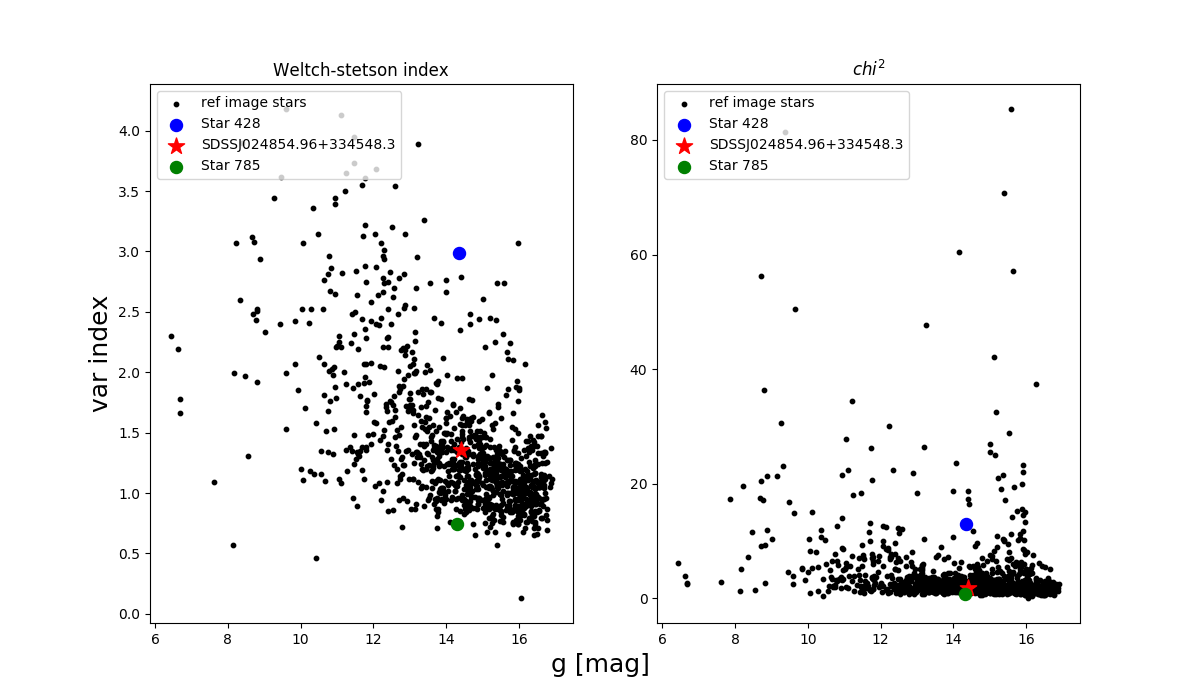
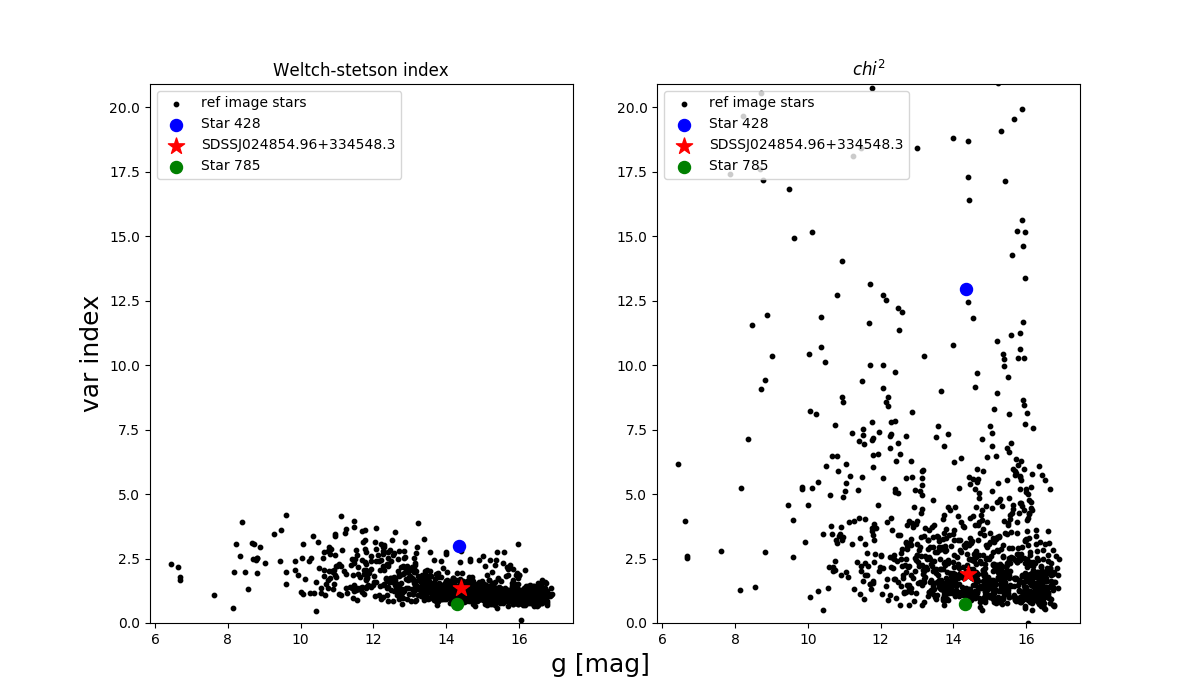
fixed var index plots

diff --git a/scripts/make_var_index_2_panel_plot.py b/scripts/make_var_index_2_panel_plot.py
@@ -13,7 +13,6 @@ def make_var_index_2_panel_plot(targname, WD_tab, close_mag_tab, phot_tab, plot_
 	unstable_star_idx = close_mag_tab[unstable_star_idx]['star_id']
 
 	ref_file = os.path.basename(glob.glob(fits_dir+'*.mag')[0].replace('.mag','.fits'))
-	ref_file = 'fl15201707270183e91.fits'
 
 	#pick most unstable star
 	most_unstable_star_tab = phot_tab[phot_tab['star_id'] == unstable_star_idx]
@@ -27,11 +26,15 @@ def make_var_index_2_panel_plot(targname, WD_tab, close_mag_tab, phot_tab, plot_
 
 	### PANEL 1 ###
 
-
 	#sort by var index, index to clip outliers
 	phot_tab.sort('var_index')
 	ref_phot_output_tab = phot_tab[phot_tab['mag_'+ref_file.replace('.fits','')] != 99.9999][0:-25]
 
+	#make ylim the same for both
+	max_ws_index = max(ref_phot_output_tab['var_index'])
+
+	ax1.set_ylim(0, max_ws_index*5.)
+	ax2.set_ylim(0, max_ws_index*5.)
 	
 	#scatter plot of variability index of all stars in reference image
 	ax1.scatter(ref_phot_output_tab['mag_'+ref_file.replace('.fits','')],ref_phot_output_tab['var_index'], c= 'k',s = 10,label = 'ref image stars')
@@ -91,12 +94,12 @@ if __name__ == '__main__':
 		 		'SDSSJ232941.330+001107.755','SDSSJ235144.29+375542.6','WD0554-165']
 
 
-	for targname in ['SDSSJ210150.65-054550.9']:
+	for targname in all_23_targs:
 		print(targname)
-		WD_tab = '/Users/cshanahan/Desktop/clean_desktop/WD_project/redo_final_ver/23_northern_targets/psf_phot/{}/plots_and_output/WD_tab.csv'.format(targname)
-		phot_tab = '/Users/cshanahan/Desktop/clean_desktop/WD_project/redo_final_ver/23_northern_targets/psf_phot/{}/plots_and_output/{}_phot_output.txt'.format(targname, targname)
-		plot_output_dir = '/Users/cshanahan/Desktop/clean_desktop/WD_project/output_for_paper/23_northern/var_index_plots/'
-		close_mag_tab = '/Users/cshanahan/Desktop/clean_desktop/WD_project/redo_final_ver/23_northern_targets/psf_phot/{}/plots_and_output/close_mag_tab.csv'.format(targname)
-		fits_dir = '/Users/cshanahan/Desktop/clean_desktop/WD_project/redo_final_ver/23_northern_targets/psf_phot/{}/'.format(targname)
+		WD_tab = '/Users/cshanahan/Desktop/white_dwarf_analysis_LCO/processed_data/23_northern_targets/psf_phot/{}/plots_and_output/WD_tab.csv'.format(targname)
+		phot_tab = '/Users/cshanahan/Desktop/white_dwarf_analysis_LCO/processed_data/23_northern_targets/psf_phot/{}/plots_and_output/{}_phot_output.txt'.format(targname, targname)
+		plot_output_dir = '/Users/cshanahan/Desktop/white_dwarf_analysis_LCO/output_for_paper/23_northern/var_index_plots/'
+		close_mag_tab = '/Users/cshanahan/Desktop/white_dwarf_analysis_LCO/processed_data/23_northern_targets/psf_phot/{}/plots_and_output/close_mag_tab.csv'.format(targname)
+		fits_dir = '/Users/cshanahan/Desktop/white_dwarf_analysis_LCO/processed_data/23_northern_targets/psf_phot/{}/'.format(targname)
 
 		make_var_index_2_panel_plot(targname, WD_tab, close_mag_tab, phot_tab, plot_output_dir, fits_dir, unstable_star_idx=-1, stable_star_idx=0)
